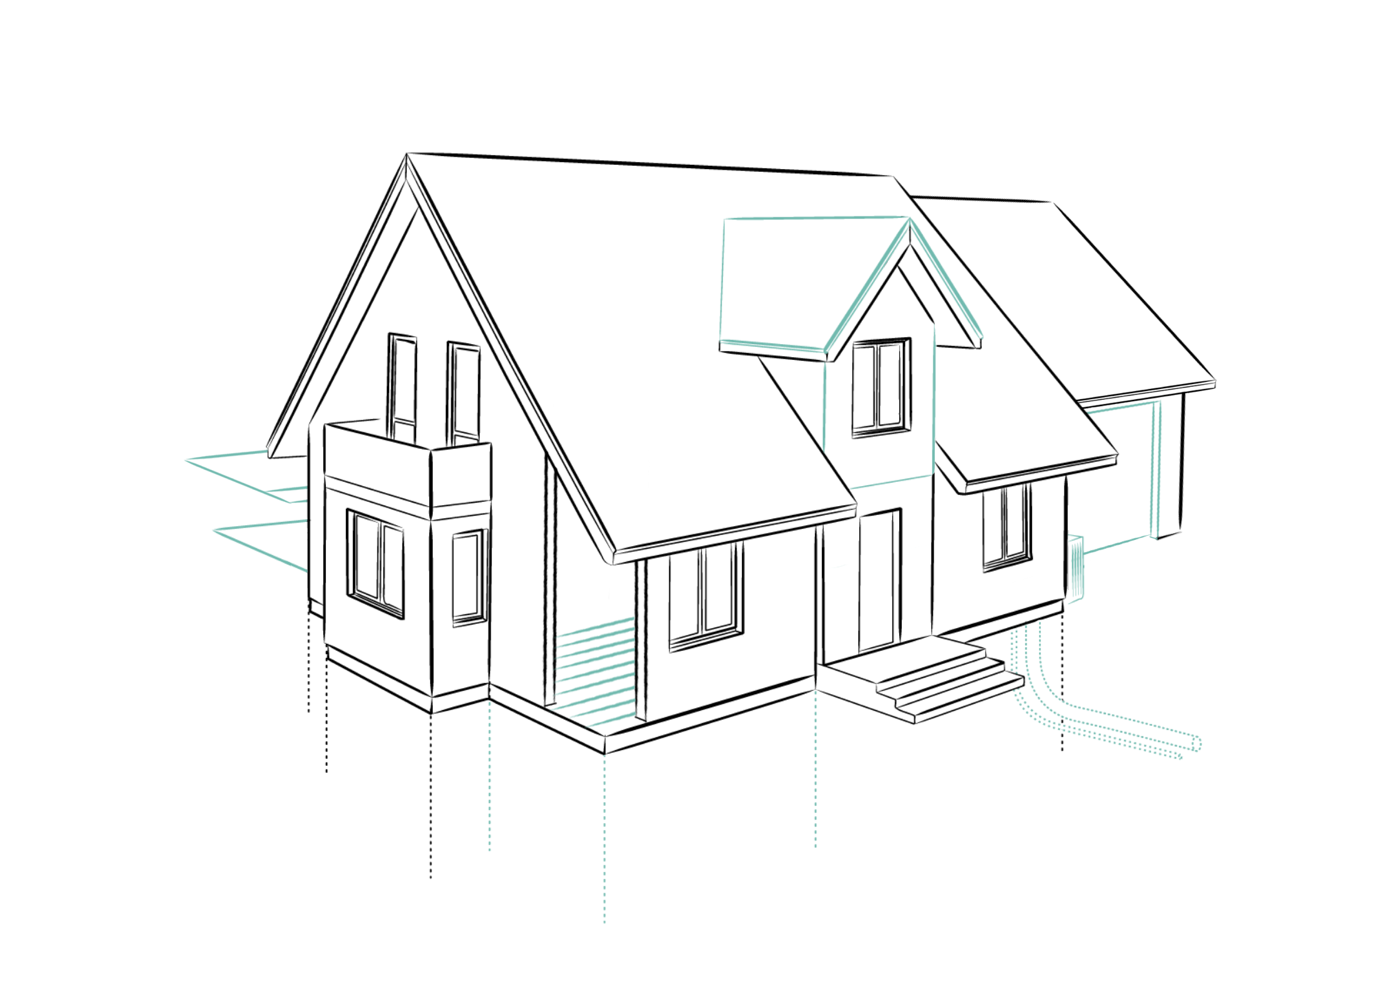
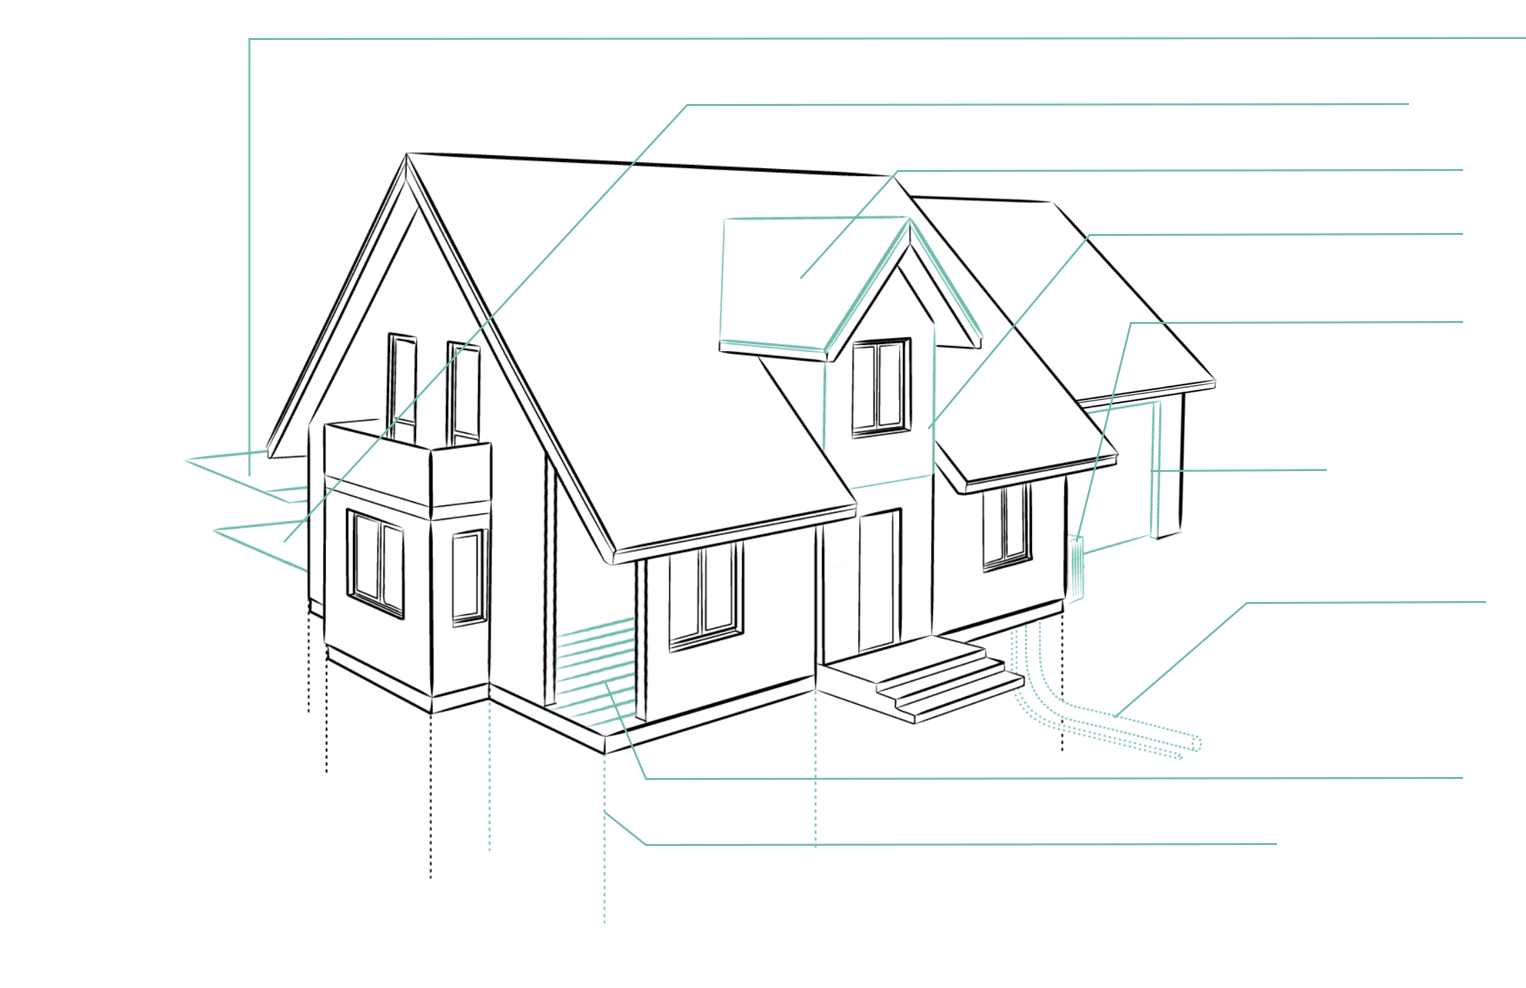
Add property features

diff --git a/src/components/SubjectPropertyDescriptionDetails/PropertyFeatures.tsx b/src/components/SubjectPropertyDescriptionDetails/PropertyFeatures.tsx
@@ -11,18 +11,18 @@ const PropertyFeatures = () => {
 	const { propertyFeatures } = useContext(DataContext)
 	const {
 		interiorFeatures,
-		exteriorFeatures
-		// pool,
-		// patioDeck,
-		// roofing,
-		// exterior,
-		// cooling,
-		// heating,
-		// garageCarport,
-		// water,
-		// sewer,
-		// flooring,
-		// basementFinished
+		exteriorFeatures,
+		pool,
+		patioDeck,
+		roofing,
+		exterior,
+		cooling,
+		heating,
+		garageCarport,
+		water,
+		sewer,
+		flooring,
+		basementFinished
 	} = {
 		...propertyFeatures
 	}
@@ -42,6 +42,50 @@ const PropertyFeatures = () => {
 				</div>
 				<div className="image-container">
 					<img src={PropertyFeatureHouse} alt="property feature" />
+					<div className="label-container pool">
+						<div className="label">Pool</div>
+						<div className="value">{pool}</div>
+					</div>
+					<div className="label-container patio">
+						<div className="label">Patio/Deck</div>
+						<div className="value">{patioDeck}</div>
+					</div>
+					<div className="label-container roofing">
+						<div className="label">Roofing</div>
+						<div className="value">{roofing}</div>
+					</div>
+					<div className="label-container exterior">
+						<div className="label">Exterior</div>
+						<div className="value">{exterior}</div>
+					</div>
+					<div className="label-container cooling">
+						<div className="label">Cooling</div>
+						<div className="value">{cooling}</div>
+					</div>
+					<div className="label-container heating">
+						<div className="label">Heating</div>
+						<div className="value">{heating}</div>
+					</div>
+					<div className="label-container garage">
+						<div className="label">Garage/Carport</div>
+						<div className="value">{garageCarport}</div>
+					</div>
+					<div className="label-container water">
+						<div className="label">Water</div>
+						<div className="value">{water}</div>
+					</div>
+					<div className="label-container sewer">
+						<div className="label">Sewer</div>
+						<div className="value">{sewer}</div>
+					</div>
+					<div className="label-container flooring">
+						<div className="label">Flooring</div>
+						<div className="value">{flooring}</div>
+					</div>
+					<div className="label-container basement">
+						<div className="label">Basement Finished</div>
+						<div className="value">{basementFinished}</div>
+					</div>
 				</div>
 			</div>
 		</div>

diff --git a/src/components/SubjectPropertyDescriptionDetails/PropertyFeatures.scss b/src/components/SubjectPropertyDescriptionDetails/PropertyFeatures.scss
@@ -14,6 +14,7 @@
 					width: 316px;
 					background: $wild-sand;
 					padding: 20px 25px;
+					z-index: 1;
 
 					.title {
 						margin-bottom: 5px;
@@ -27,8 +28,64 @@
 				.image-container {
 					flex: 1;
 					position: relative;
+					margin-left: -50px;
 					img {
 						height: 100%;
+					}
+					.label-container {
+						position: absolute;
+						display: flex;
+						&.pool {
+							right: -12px;
+							top: 5px;
+						}
+						&.patio {
+							right: -12px;
+							top: 33px;
+						}
+						&.roofing {
+							right: -13px;
+							top: 62px;
+						}
+						&.exterior {
+							right: -13px;
+							top: 90px;
+						}
+						&.cooling {
+							right: -14px;
+							top: 118px;
+						}
+						&.heating {
+							right: -15px;
+							top: 142px;
+						}
+						&.garage {
+							right: -14px;
+							top: 190px;
+						}
+						&.water {
+							right: -14px;
+							top: 235px;
+						}
+						&.sewer {
+							right: -14px;
+							top: 255px;
+						}
+						&.flooring {
+							right: -15px;
+							top: 323px;
+						}
+						&.basement {
+							right: -17px;
+							top: 352px;
+						}
+						.label {
+							font-weight: $heavy-weight;
+							margin-right: 15px;
+						}
+						.value {
+							width: 200px;
+						}
 					}
 				}
 			}
